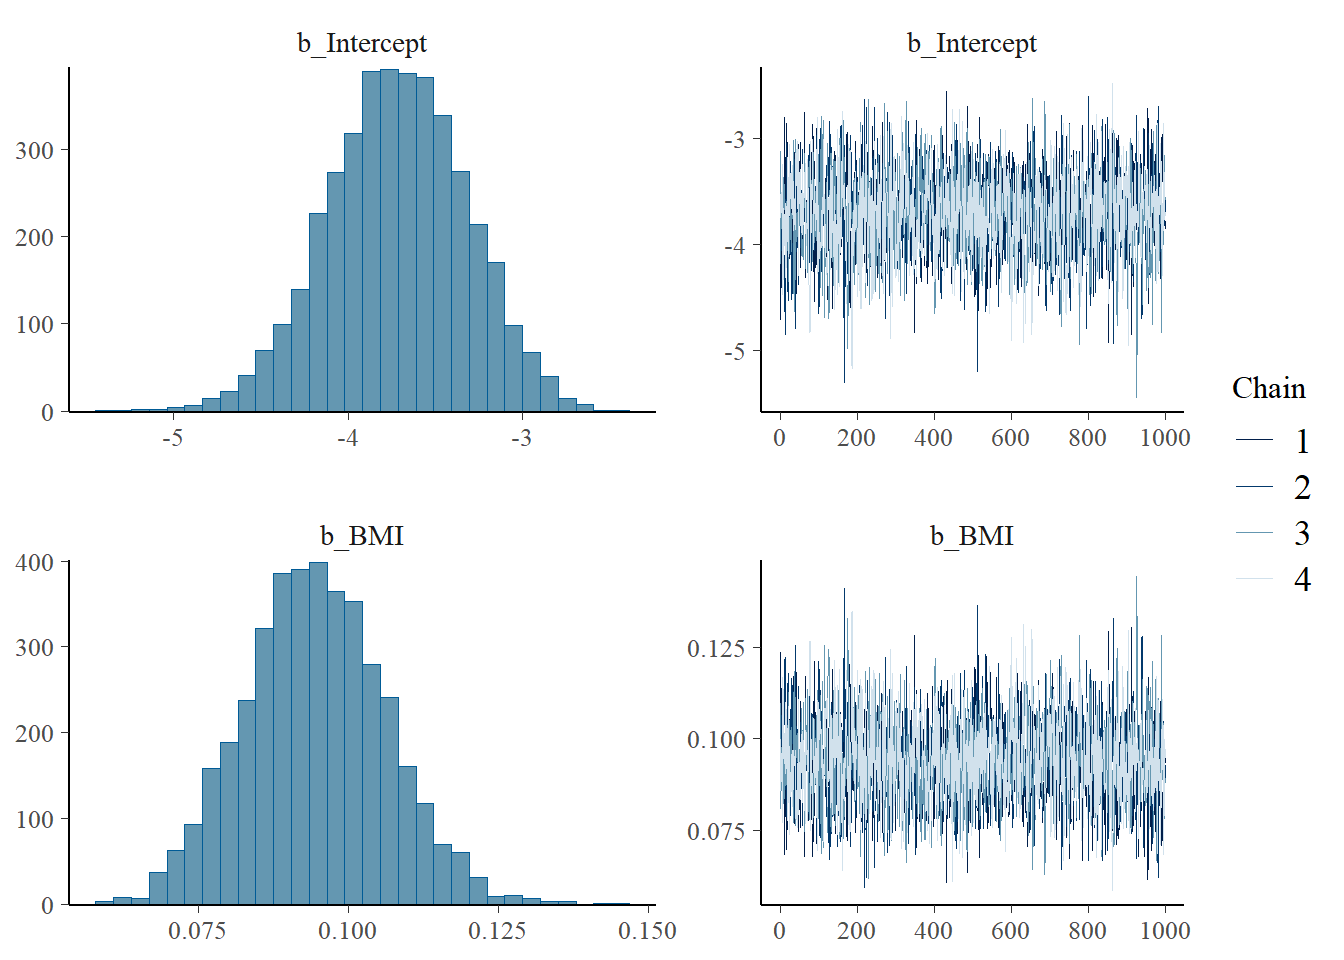
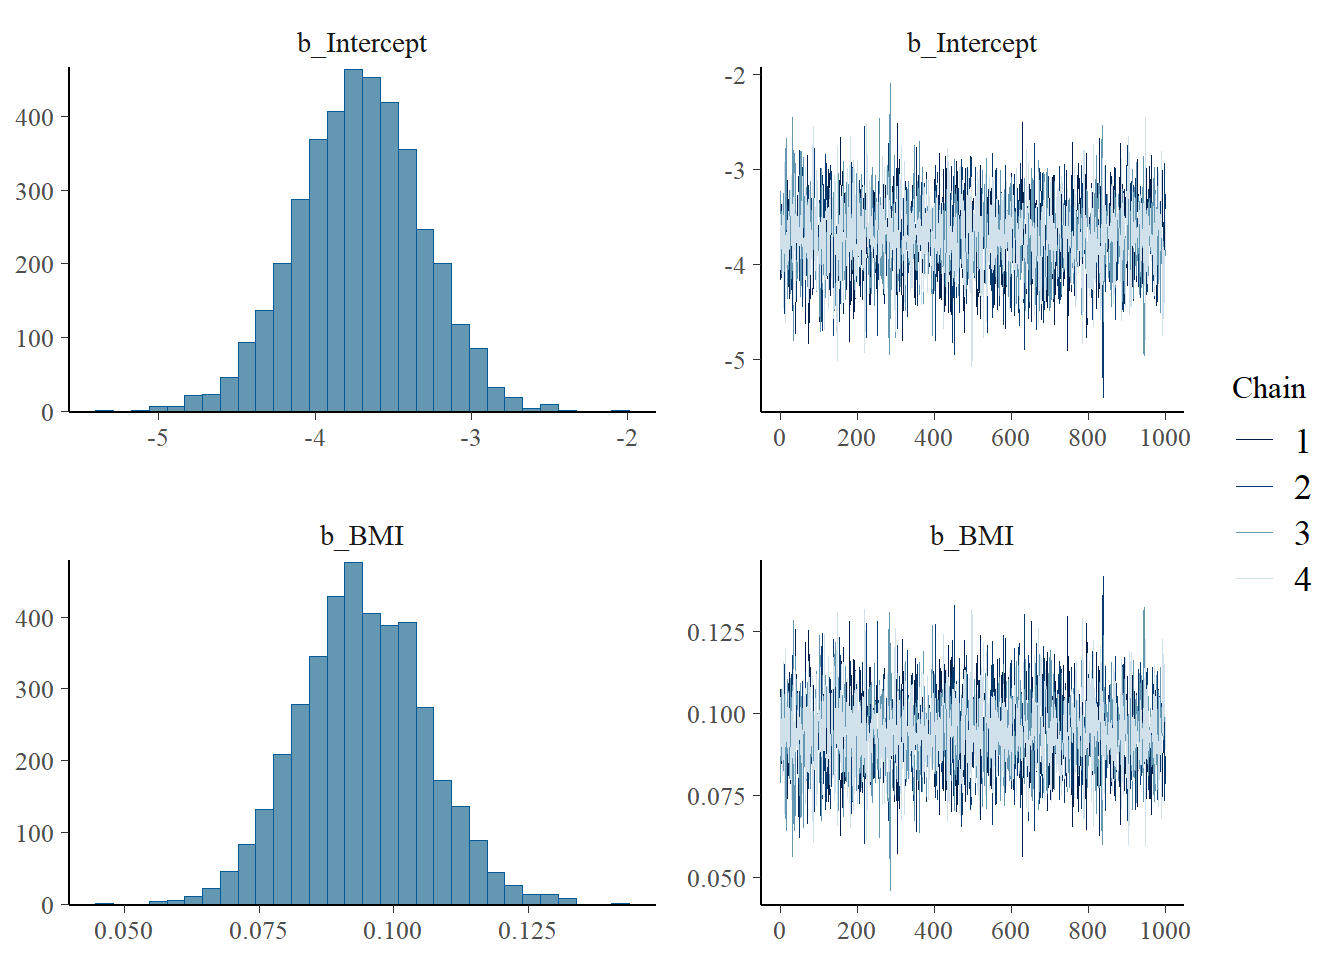
Built site for gh-pages

diff --git a/Model.html b/Model.html
@@ -20,40 +20,6 @@ ul.task-list li input[type="checkbox"] {
   margin: 0 0.8em 0.2em -1em; /* quarto-specific, see https://github.com/quarto-dev/quarto-cli/issues/4556 */ 
   vertical-align: middle;
 }
-/* CSS for syntax highlighting */
-pre > code.sourceCode { white-space: pre; position: relative; }
-pre > code.sourceCode > span { line-height: 1.25; }
-pre > code.sourceCode > span:empty { height: 1.2em; }
-.sourceCode { overflow: visible; }
-code.sourceCode > span { color: inherit; text-decoration: inherit; }
-div.sourceCode { margin: 1em 0; }
-pre.sourceCode { margin: 0; }
-@media screen {
-div.sourceCode { overflow: auto; }
-}
-@media print {
-pre > code.sourceCode { white-space: pre-wrap; }
-pre > code.sourceCode > span { text-indent: -5em; padding-left: 5em; }
-}
-pre.numberSource code
-  { counter-reset: source-line 0; }
-pre.numberSource code > span
-  { position: relative; left: -4em; counter-increment: source-line; }
-pre.numberSource code > span > a:first-child::before
-  { content: counter(source-line);
-    position: relative; left: -1em; text-align: right; vertical-align: baseline;
-    border: none; display: inline-block;
-    -webkit-touch-callout: none; -webkit-user-select: none;
-    -khtml-user-select: none; -moz-user-select: none;
-    -ms-user-select: none; user-select: none;
-    padding: 0 4px; width: 4em;
-  }
-pre.numberSource { margin-left: 3em;  padding-left: 4px; }
-div.sourceCode
-  {   }
-@media screen {
-pre > code.sourceCode > span > a:first-child::before { text-decoration: underline; }
-}
 </style>
 
 
@@ -214,33 +180,6 @@ window.Quarto = {
 
 <p>Using a Bayesian regression model, and the formula <span class="math display">\[Risk∼β0+β1×BMI\]</span></p>
 <div class="cell">
-<div class="sourceCode cell-code" id="cb1"><pre class="sourceCode r code-with-copy"><code class="sourceCode r"><span id="cb1-1"><a href="#cb1-1" aria-hidden="true" tabindex="-1"></a><span class="co"># Load necessary libraries</span></span>
-<span id="cb1-2"><a href="#cb1-2" aria-hidden="true" tabindex="-1"></a><span class="fu">library</span>(tidyverse)</span>
-<span id="cb1-3"><a href="#cb1-3" aria-hidden="true" tabindex="-1"></a><span class="fu">library</span>(brms)</span>
-<span id="cb1-4"><a href="#cb1-4" aria-hidden="true" tabindex="-1"></a></span>
-<span id="cb1-5"><a href="#cb1-5" aria-hidden="true" tabindex="-1"></a><span class="co"># Load the dataset</span></span>
-<span id="cb1-6"><a href="#cb1-6" aria-hidden="true" tabindex="-1"></a>data <span class="ot">&lt;-</span> <span class="fu">read.csv</span>(<span class="st">"diabetes.csv"</span>)</span>
-<span id="cb1-7"><a href="#cb1-7" aria-hidden="true" tabindex="-1"></a></span>
-<span id="cb1-8"><a href="#cb1-8" aria-hidden="true" tabindex="-1"></a><span class="co"># Convert 'Outcome' to a factor (0 = No diabetes, 1 = Diabetes)</span></span>
-<span id="cb1-9"><a href="#cb1-9" aria-hidden="true" tabindex="-1"></a>data<span class="sc">$</span>Outcome <span class="ot">&lt;-</span> <span class="fu">as.factor</span>(data<span class="sc">$</span>Outcome)</span>
-<span id="cb1-10"><a href="#cb1-10" aria-hidden="true" tabindex="-1"></a></span>
-<span id="cb1-11"><a href="#cb1-11" aria-hidden="true" tabindex="-1"></a><span class="co"># Define the Bayesian logistic regression model</span></span>
-<span id="cb1-12"><a href="#cb1-12" aria-hidden="true" tabindex="-1"></a>model <span class="ot">&lt;-</span> <span class="fu">brm</span>(</span>
-<span id="cb1-13"><a href="#cb1-13" aria-hidden="true" tabindex="-1"></a>  Outcome <span class="sc">~</span> BMI,                 <span class="co"># Formula: predicting 'Outcome' based on 'BMI'</span></span>
-<span id="cb1-14"><a href="#cb1-14" aria-hidden="true" tabindex="-1"></a>  <span class="at">data =</span> data,                   <span class="co"># Dataset</span></span>
-<span id="cb1-15"><a href="#cb1-15" aria-hidden="true" tabindex="-1"></a>  <span class="at">family =</span> <span class="fu">bernoulli</span>(),          <span class="co"># Logistic regression for binary outcome</span></span>
-<span id="cb1-16"><a href="#cb1-16" aria-hidden="true" tabindex="-1"></a>  <span class="at">prior =</span> <span class="fu">c</span>(</span>
-<span id="cb1-17"><a href="#cb1-17" aria-hidden="true" tabindex="-1"></a>    <span class="fu">set_prior</span>(<span class="st">"normal(0, 10)"</span>, <span class="at">class =</span> <span class="st">"b"</span>),     <span class="co"># Prior for the coefficient (BMI)</span></span>
-<span id="cb1-18"><a href="#cb1-18" aria-hidden="true" tabindex="-1"></a>    <span class="fu">set_prior</span>(<span class="st">"normal(0, 10)"</span>, <span class="at">class =</span> <span class="st">"Intercept"</span>)  <span class="co"># Prior for the intercept</span></span>
-<span id="cb1-19"><a href="#cb1-19" aria-hidden="true" tabindex="-1"></a>  ),</span>
-<span id="cb1-20"><a href="#cb1-20" aria-hidden="true" tabindex="-1"></a>  <span class="at">chains =</span> <span class="dv">4</span>,                    <span class="co"># Number of MCMC chains</span></span>
-<span id="cb1-21"><a href="#cb1-21" aria-hidden="true" tabindex="-1"></a>  <span class="at">iter =</span> <span class="dv">2000</span>,                   <span class="co"># Number of iterations per chain</span></span>
-<span id="cb1-22"><a href="#cb1-22" aria-hidden="true" tabindex="-1"></a>  <span class="at">warmup =</span> <span class="dv">1000</span>,                 <span class="co"># Number of warmup (burn-in) iterations</span></span>
-<span id="cb1-23"><a href="#cb1-23" aria-hidden="true" tabindex="-1"></a>  <span class="at">cores =</span> <span class="dv">2</span>                      <span class="co"># Number of CPU cores to use</span></span>
-<span id="cb1-24"><a href="#cb1-24" aria-hidden="true" tabindex="-1"></a>)</span>
-<span id="cb1-25"><a href="#cb1-25" aria-hidden="true" tabindex="-1"></a></span>
-<span id="cb1-26"><a href="#cb1-26" aria-hidden="true" tabindex="-1"></a><span class="co"># Summary of the model</span></span>
-<span id="cb1-27"><a href="#cb1-27" aria-hidden="true" tabindex="-1"></a><span class="fu">summary</span>(model)</span></code><button title="Copy to Clipboard" class="code-copy-button"><i class="bi"></i></button></pre></div>
 <div class="cell-output cell-output-stdout">
 <pre><code> Family: bernoulli 
   Links: mu = logit 
@@ -251,15 +190,13 @@ Formula: Outcome ~ BMI
 
 Regression Coefficients:
           Estimate Est.Error l-95% CI u-95% CI Rhat Bulk_ESS Tail_ESS
-Intercept    -3.72      0.40    -4.52    -2.95 1.00     2692     2202
-BMI           0.09      0.01     0.07     0.12 1.00     2954     2406
+Intercept    -3.71      0.40    -4.50    -2.96 1.00     3212     2483
+BMI           0.09      0.01     0.07     0.12 1.00     3540     2521
 
 Draws were sampled using sampling(NUTS). For each parameter, Bulk_ESS
 and Tail_ESS are effective sample size measures, and Rhat is the potential
 scale reduction factor on split chains (at convergence, Rhat = 1).</code></pre>
 </div>
-<div class="sourceCode cell-code" id="cb3"><pre class="sourceCode r code-with-copy"><code class="sourceCode r"><span id="cb3-1"><a href="#cb3-1" aria-hidden="true" tabindex="-1"></a><span class="co"># Plot the posterior distributions and other diagnostics</span></span>
-<span id="cb3-2"><a href="#cb3-2" aria-hidden="true" tabindex="-1"></a><span class="fu">plot</span>(model)</span></code><button title="Copy to Clipboard" class="code-copy-button"><i class="bi"></i></button></pre></div>
 <div class="cell-output-display">
 <div>
 <figure class="figure">
@@ -267,8 +204,6 @@ scale reduction factor on split chains (at convergence, Rhat = 1).</code></pre>
 </figure>
 </div>
 </div>
-<div class="sourceCode cell-code" id="cb4"><pre class="sourceCode r code-with-copy"><code class="sourceCode r"><span id="cb4-1"><a href="#cb4-1" aria-hidden="true" tabindex="-1"></a><span class="co"># Posterior predictive checks</span></span>
-<span id="cb4-2"><a href="#cb4-2" aria-hidden="true" tabindex="-1"></a><span class="fu">pp_check</span>(model)</span></code><button title="Copy to Clipboard" class="code-copy-button"><i class="bi"></i></button></pre></div>
 <div class="cell-output-display">
 <div>
 <figure class="figure">
